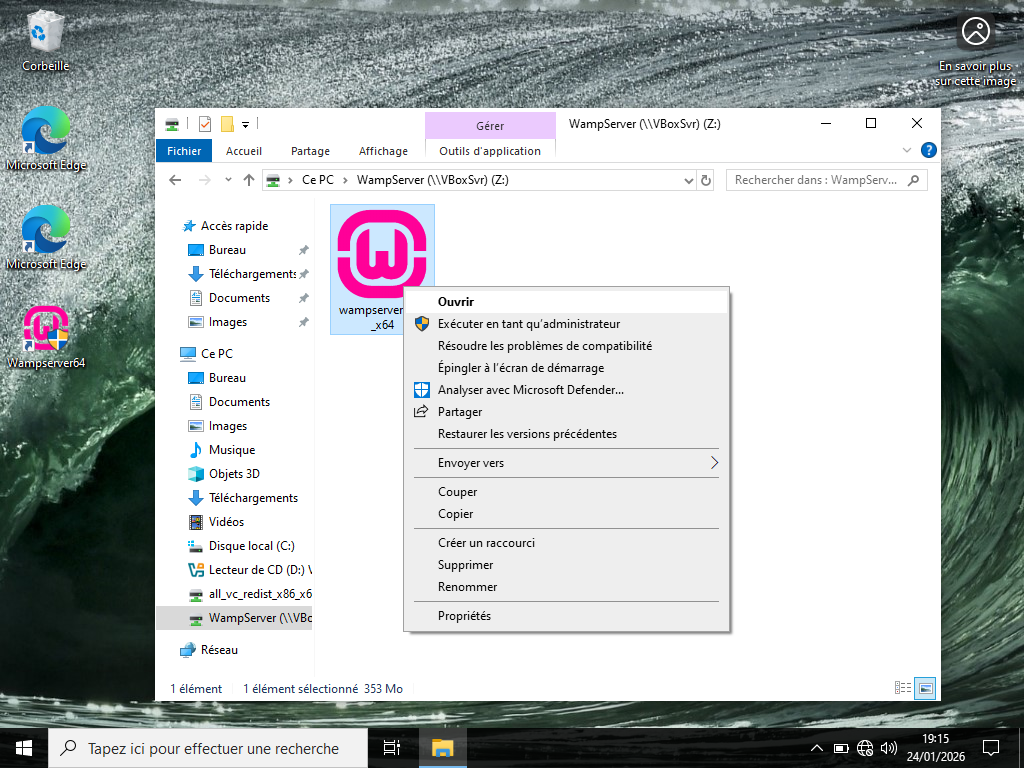
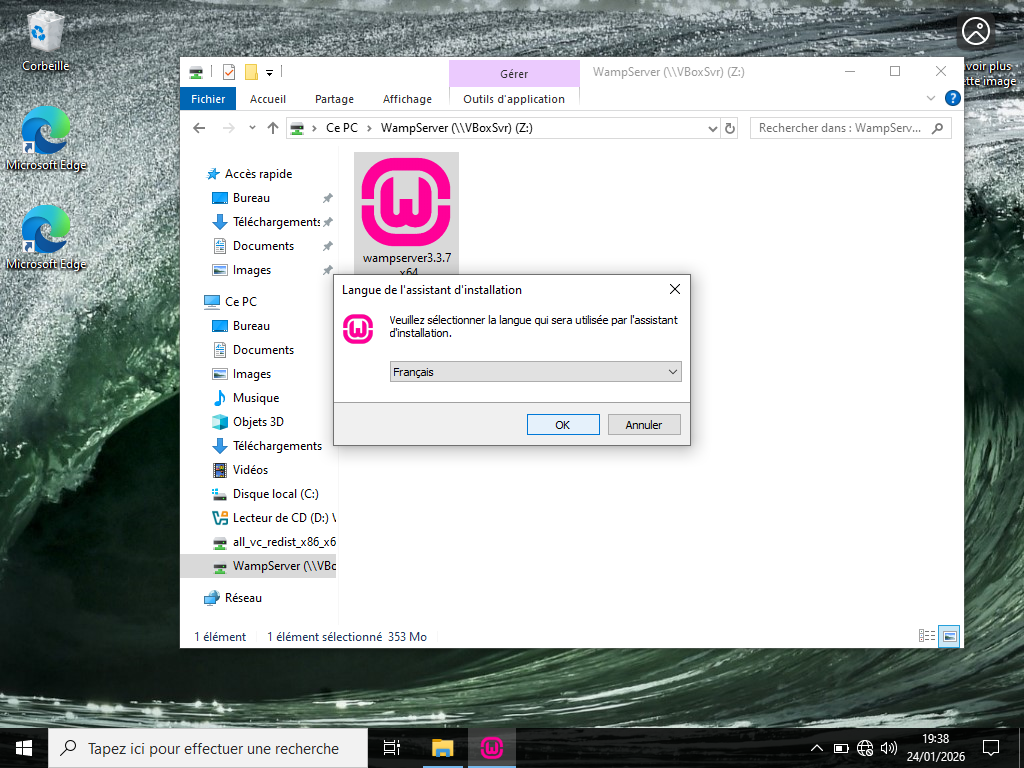
Mise à jour

Changed region(s): [[0.125, 0.0625, 0.9688, 1.0], [0.0, 0.375, 0.0938, 0.5]]

diff --git a/Readme.md b/Readme.md
@@ -239,13 +239,15 @@ Prérequis à télécharger :
 
 <p align="center">
 
-<img src="vbox/01.png" width="400">
+<img src="hyperviseur_1/01.png" width="400">
 
 </p>
 
-## Installation VBoxWindowsAdditions dans une VM :
+## Installation VBoxWindowsAdditions :
 
 <p align="center">
+
+<img src="vbox/01.png" width="400">
 
 <img src="vbox/02.png" width="400">
 
@@ -259,10 +261,6 @@ Prérequis à télécharger :
 
 <img src="vbox/07.png" width="400">
 
-<img src="vbox/08.png" width="400">
-
-<img src="vbox/09.png" width="400">
-
 </p>
 
 
@@ -270,15 +268,19 @@ Prérequis à télécharger :
 
 <p align="center">
 
-<img src="wampserver/01.png" width="400">
+<img src="hyperviseur_2/01.png" width="400">
 
-<img src="wampserver/02.png" width="400">
+<img src="hyperviseur_2/02.png" width="400">
 
 </p>
 
-## Transfère fichier et installation de WampServer dans une VM avec VBoxWindowsAdditions :
+## Installation WampServer :
 
 <p align="center">
+
+<img src="wampserver/01.png" width="400">
+
+<img src="wampserver/02.png" width="400">
 
 <img src="wampserver/03.png" width="400">
 
@@ -296,11 +298,4 @@ Prérequis à télécharger :
 
 <img src="wampserver/10.png" width="400">
 
-<img src="wampserver/11.png" width="400">
-
-<img src="wampserver/12.png" width="400">
-
 </p>
-
-
-
